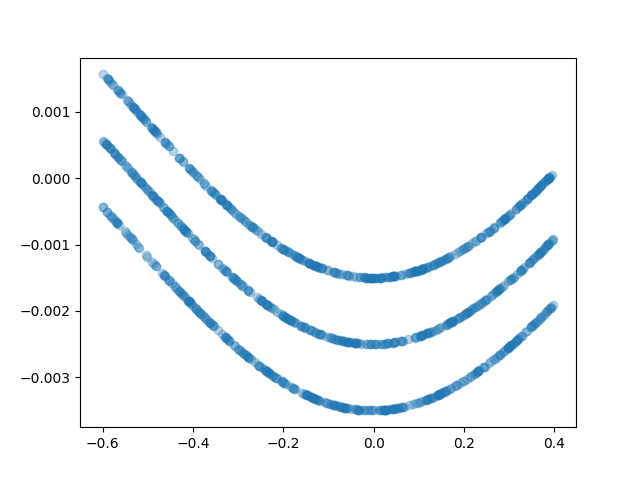
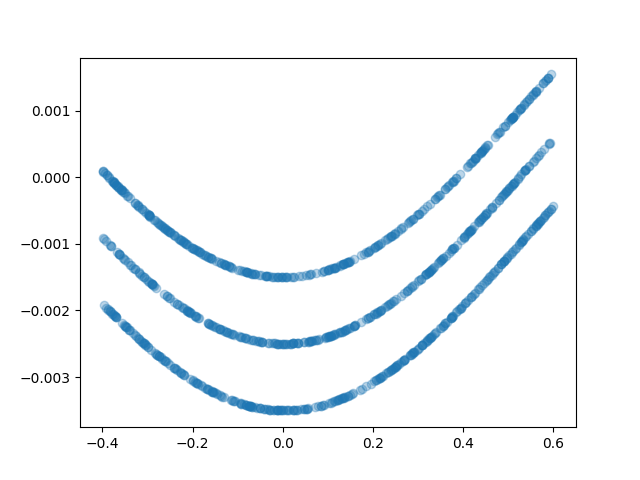
Pring moutain car env

diff --git a/env_example/plot_random_moutain_car_observations.py b/env_example/plot_random_moutain_car_observations.py
@@ -15,7 +15,7 @@ for t in range(1000):
     if done:
         print("Episode finished after {} timesteps".format(t + 1))
 observations = np.array(observations)
-plt.scatter(observations[:, 0], observations[:, 1], alpha=0.3)
+plt.scatter(-observations[:, 0], observations[:, 1], alpha=0.3)
 plt.savefig("observations.png")
 plt.show()
 env.close()

diff --git a/env_example/print_moutain_car_env.py b/env_example/print_moutain_car_env.py
@@ -1,0 +1,14 @@
+import gym
+import time
+import numpy as np
+import matplotlib.pyplot as plt
+
+env = gym.make("MountainCar-v0")
+print("MoutainCar env")
+print(env)
+print("action_space")
+print(env.action_space)
+print("observation_space")
+print(env.observation_space)
+print("reward_range")
+print(env.reward_range)
